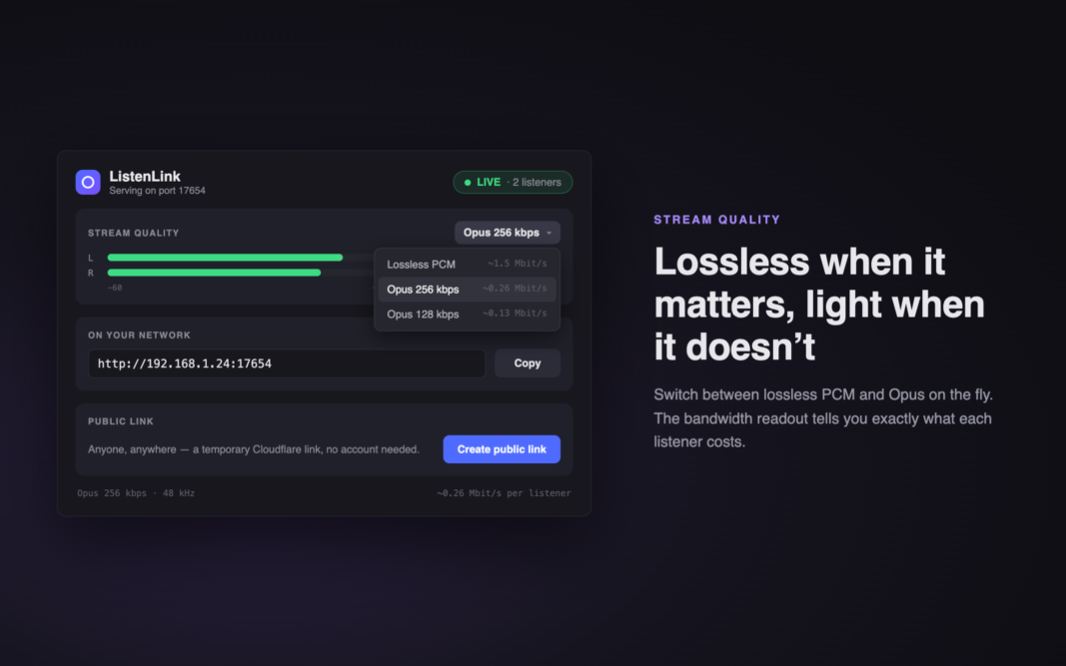
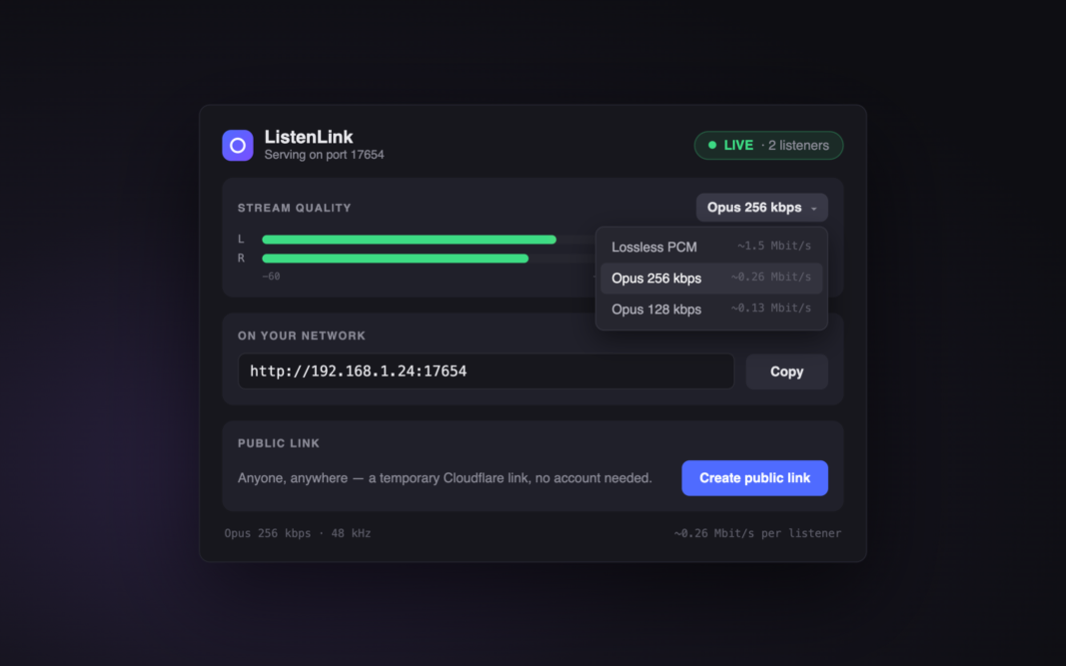
Clean screenshots without baked-in copy; drop notarized note

diff --git a/listenlink/index.html b/listenlink/index.html
@@ -354,10 +354,10 @@
     <div class="hero-cta" id="download">
       <a class="btn primary display" href="https://github.com/gleyzeddonut/listenlink/releases/download/v0.2.0/ListenLink-0.2.0-mac.zip">Download for macOS</a>
       <a class="btn display" href="https://github.com/gleyzeddonut/listenlink">Source code</a>
-      <span class="cta-note mono">VST3 · AU · Signed &amp; notarized</span>
+      <span class="cta-note mono">VST3 · AU</span>
     </div>
     <figure class="screen" style="margin:0;">
-      <img src="img/01-hero.png" alt="The ListenLink plugin window: stream quality selector with live level meters, a copyable network link, and a Create Public Link button, shown live with 3 listeners." width="1600" height="1000">
+      <img src="img/01-live.png" alt="The ListenLink plugin window: stream quality selector with live level meters, a copyable network link, and a Create Public Link button, shown live with 3 listeners." width="1600" height="1000">
     </figure>
     <div class="screen-caption mono" aria-hidden="true">
       <span>Fig. 01 — The whole interface</span>
